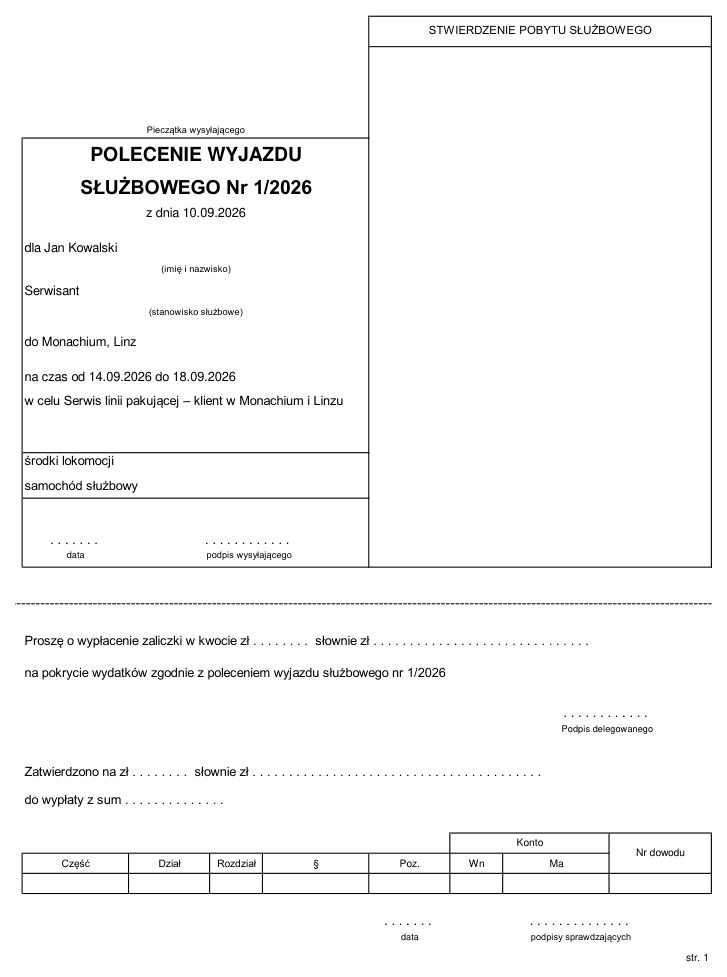
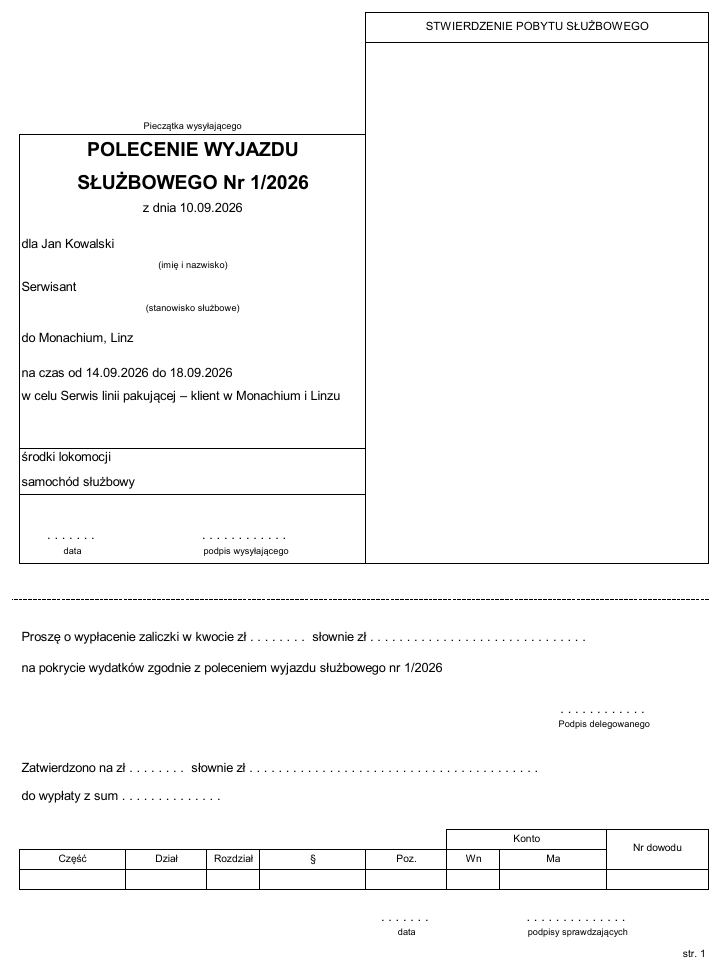
Formularze zgłoszeń, obrazek podglądu repo i odświeżone zrzuty
Trzy formularze Issues (błąd w wyliczeniu, plik nie działa, propozycja)
z linkiem do FAQ; docs/social-preview.png generowany przez
build/social_preview.py; zrzuty w docs/ z wersji 2.4.

diff --git a/build/social_preview.py b/build/social_preview.py
@@ -1,0 +1,50 @@
+# Obrazek podglądu repozytorium na GitHubie (Settings → Social preview), 1280×640, ze zrzutów w docs/.
+# Uruchom po odświeżeniu zrzutów: python build/social_preview.py  →  docs/social-preview.png
+import os
+from PIL import Image, ImageDraw, ImageFilter, ImageFont
+
+root = os.path.join(os.path.dirname(os.path.abspath(__file__)), "..")
+W, H = 1280, 640
+NAVY, YELLOW, WHITE, LIGHT = (31, 56, 100), (255, 242, 204), (255, 255, 255), (217, 225, 242)
+F = "C:/Windows/Fonts/"
+bold = lambda s: ImageFont.truetype(F + "arialbd.ttf", s)
+reg = lambda s: ImageFont.truetype(F + "arial.ttf", s)
+
+img = Image.new("RGB", (W, H), NAVY)
+d = ImageDraw.Draw(img)
+
+
+def card(path, width, pos, angle=0):
+    shot = Image.open(path).convert("RGB")
+    shot = shot.resize((width, round(shot.height * width / shot.width)), Image.LANCZOS)
+    pad = 10
+    c = Image.new("RGBA", (shot.width + 2 * pad, shot.height + 2 * pad), WHITE + (255,))
+    c.paste(shot, (pad, pad))
+    if angle:
+        c = c.rotate(angle, expand=True, resample=Image.BICUBIC)
+    sh = Image.new("RGBA", (c.width + 40, c.height + 40), (0, 0, 0, 0))
+    sh.paste((0, 0, 0, 110), (20, 26, 20 + c.width, 26 + c.height), c)
+    sh = sh.filter(ImageFilter.GaussianBlur(12))
+    img.paste(sh, (pos[0] - 20, pos[1] - 20), sh)
+    img.paste(c, pos, c)
+
+
+# zrzuty: druk delegacji z tyłu, kalkulator z przodu
+card(f"{root}/docs/delegacja-2.png", 250, (1000, 70), angle=-4)
+card(f"{root}/docs/kalkulator.png", 640, (560, 170))
+
+x = 64
+d.rectangle((x, 92, x + 90, 100), fill=YELLOW)
+d.text((x, 122), "Kalkulator diety", font=bold(58), fill=WHITE)
+d.text((x, 190), "zagranicznej", font=bold(58), fill=WHITE)
+d.text((x, 268), "w Excelu – z drukiem delegacji", font=reg(28), fill=LIGHT)
+y = 340
+for t in ("Bez makr, wszystko liczą formuły", "Kursy NBP pobierane automatycznie",
+          "120 krajów – stawki z rozporządzenia", "Gotowy druk polecenia wyjazdu"):
+    d.ellipse((x, y + 9, x + 12, y + 21), fill=YELLOW)
+    d.text((x + 26, y), t, font=reg(25), fill=WHITE)
+    y += 44
+d.text((x, 572), "Licencja MIT  ·  Microsoft 365 / Excel 2024 na Windows", font=reg(19), fill=LIGHT)
+
+img.save(f"{root}/docs/social-preview.png", optimize=True)
+print("ok", img.size)

diff --git a/docs/BUDOWANIE.md b/docs/BUDOWANIE.md
@@ -15,11 +15,13 @@ Plik `.xlsx` jest **generowany** – nie edytuj go ręcznie, zmieniaj `build/bui
 │   ├── test.ps1             testy regresji z oczekiwanymi kwotami (m.in. przypadek kontrolny)
 │   ├── export_raport.ps1    eksport wybranego arkusza do PDF (podgląd wydruku)
 │   ├── przenies_dane.ps1    przenosi wpisane dane ze starego pliku do świeżo zbudowanego
-│   ├── wydanie.ps1          buduje publiczny plik w wydanie/, uruchamia testy, czyści metadane
+│   ├── wydanie.ps1          buduje publiczne pliki w wydanie/, uruchamia testy, czyści metadane
+│   ├── social_preview.py    obrazek podglądu repo (docs/social-preview.png) ze zrzutów w docs/
 │   ├── kraje.json           120 państw: [nazwa, waluta, dieta, limit noclegu]
 │   ├── formulas.json        wygenerowane formuły (składnia angielska) – widać w nich zmiany logiki
 │   └── layout.json          wygenerowane adresy pól wejściowych
-├── docs/                    zrzuty ekranu i ten dokument
+├── docs/                    zrzuty ekranu, obrazek podglądu repo (social-preview.png) i ten dokument
+├── .github/ISSUE_TEMPLATE/  formularze zgłoszeń (błąd w wyliczeniu, plik nie działa, propozycja)
 ├── CHANGELOG.md             historia zmian
 ├── CLAUDE.md                notatki techniczne i pułapki (dla Claude Code)
 └── LICENSE                  licencja MIT
@@ -70,7 +72,7 @@ pwsh -NoProfile -File export_raport.ps1 -File "<.xlsx>" -Sheet Delegacja -Pdf "$
 ## Wydanie nowej wersji
 
 1. Zmień `WERSJA` / `WERSJA_DATA` w `build/build.py` i dopisz zmiany do [`CHANGELOG.md`](../CHANGELOG.md).
-2. Zbuduj publiczny plik: `pwsh -NoProfile -File build/wydanie.ps1`. Jeśli zmienił się wygląd, odśwież zrzuty w `docs/` (eksport arkuszy do PDF → PNG).
+2. Zbuduj publiczny plik: `pwsh -NoProfile -File build/wydanie.ps1`. Jeśli zmienił się wygląd albo numer wersji (widoczny w nagłówku), odśwież zrzuty w `docs/`: eksport arkuszy Kalkulator, Raport i Delegacja z `wydanie/` przez `export_raport.ps1 -Sheet …`, potem `pdftoppm -r 110 -png` i przycięcie białych marginesów (strona 1 Kalkulatora i Raportu, obie strony Delegacji). Na koniec `python build/social_preview.py` i wgranie `docs/social-preview.png` w **Settings → General → Social preview** (GitHub nie ma do tego API).
 3. Zatwierdź zmiany i wypchnij je na GitHub.
 4. Na GitHubie: **Releases → Draft a new release**, tag `vX.Y`, tytuł „Wersja X.Y”, w opisie zmiany z `CHANGELOG.md`. Dołącz oba pliki z `wydanie/` (`Kalkulator_delegacji_zagranicznej.xlsx` i `Kalkulator_delegacji_zagranicznej_pusty.xlsx`) **pod tymi samymi nazwami** – linki „Pobierz” w README prowadzą zawsze do plików o tych nazwach w najnowszym wydaniu. Jeśli zmienił się przykład w `build.py` albo stawki, popraw tabelę „Przykład krok po kroku” w README.
 

diff --git a/README.md b/README.md
@@ -122,6 +122,10 @@ Dieta razem: 215,53 EUR = **930,46 PLN**. Do tego noclegi 380 EUR × 4,3171 = 1 
 
 **Aktualność stawek:** stawki diet są w arkuszu **Kraje**. Po zmianie przepisów można je tam poprawić (po wyłączeniu ochrony arkusza) albo pobrać nową wersję kalkulatora. W 2026 r. był projekt podwyżki stawek – sprawdź, czy weszła w życie.
 
+## Zgłoś błąd albo pomysł
+
+Kalkulator liczy inaczej, niż powinien, plik nie działa albo masz pomysł na zmianę? [Załóż zgłoszenie](https://github.com/krystianr84/delegacji_zagranicznej_plus/issues/new/choose) – formularz podpowie, co podać. Nie wpisuj w nim imion, nazwisk ani numerów poleceń, wystarczą kraje, daty i kwoty.
+
 ## Dla programistów
 
 Plik `.xlsx` jest generowany ze skryptów w `build/` (Python + Excel przez COM). Budowanie, testy, struktura repozytorium i wydawanie nowych wersji: [`docs/BUDOWANIE.md`](docs/BUDOWANIE.md).
